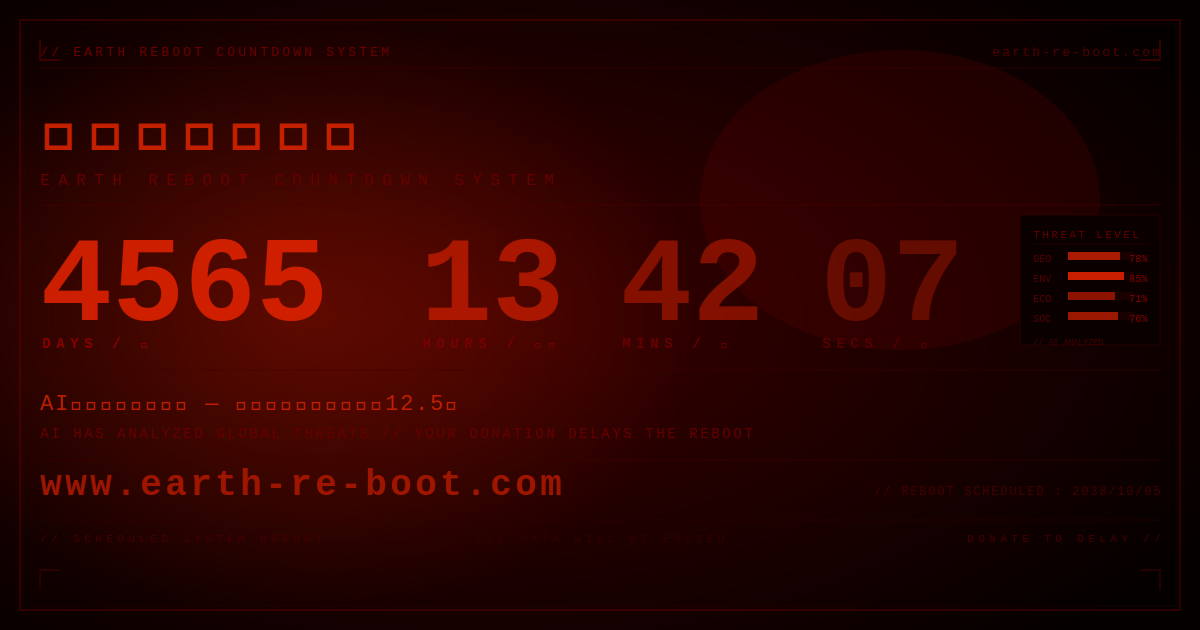
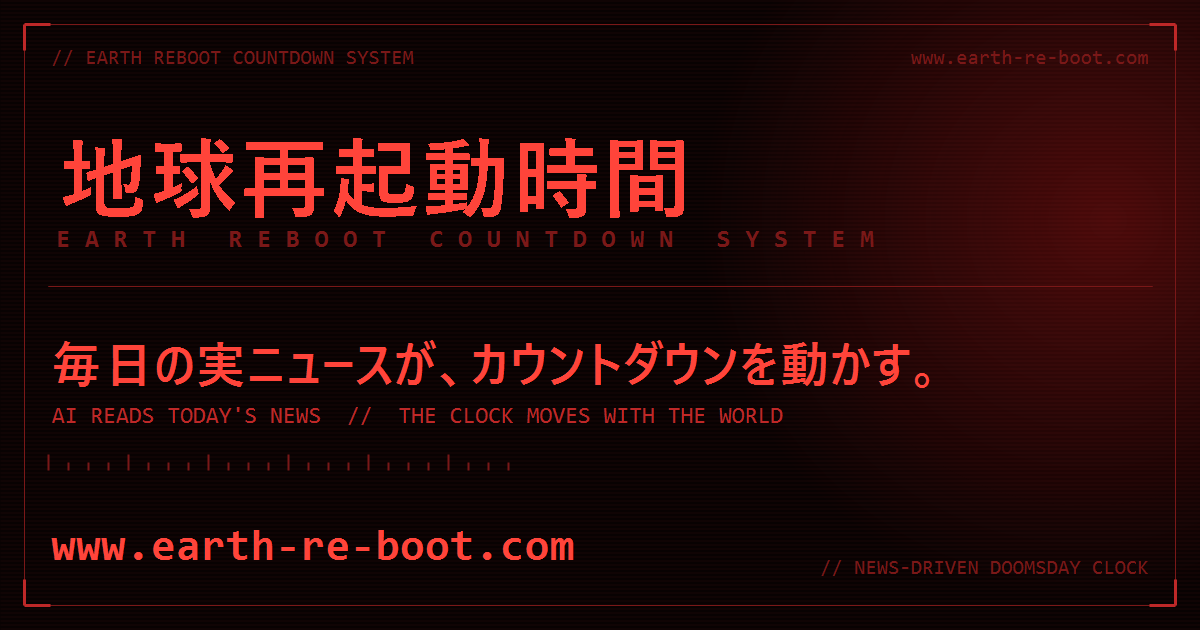
fix: OGP画像を作り直し、廃止済みの寄付訴求と豆腐文字を解消
旧 public/ogp.png には3つの問題があった。X・note・LINE 等あらゆる共有で
表示される画像であるため、サイトの現行仕様と食い違うと影響が大きい。

- 「YOUR DONATION DELAYS THE REBOOT」「DONATE TO DELAY」が残存。
  寄付による延命は 2026-06-28 に廃止済みで、note記事やSNSの発信内容と矛盾していた
- 日本語が豆腐文字（□）になっていた。生成時に日本語フォントが無かったとみられる
- 再起動日 2038/10/05 と固定のカウントダウン数値がハードコードされていた

対応:
- scripts/generate-ogp.ps1 を新設し、生成を再現可能にした
  （旧画像は手作業アップロードで生成元が無く、内容が古びる原因になっていた）
- 静的画像に数値を焼き込まない方針とし、「毎日の実ニュースが、カウントダウンを
  動かす。」というコンセプトを主メッセージに置いた
- og:image / twitter:image に ?v=2 を付与し、SNS側のキャッシュを更新させる

diff --git a/public/game.html b/public/game.html
@@ -7,12 +7,12 @@
 <meta property="og:title" content="EARTH REBOOT — 最後の選択者 | ブラウザ ビジュアルノベル">
 <meta property="og:description" content="2038年、地球再起動まで12時間。あなたはAI「GAIA」と共に人類最後の選択に臨む。選択肢型ノベルゲーム、無料プレイ。">
 <meta property="og:type" content="website">
-<meta property="og:image" content="https://www.earth-re-boot.com/ogp.png">
+<meta property="og:image" content="https://www.earth-re-boot.com/ogp.png?v=2">
 <meta property="og:image:width" content="1200">
 <meta property="og:image:height" content="630">
 <meta property="og:url" content="https://www.earth-re-boot.com/game">
 <meta name="twitter:card" content="summary_large_image">
-<meta name="twitter:image" content="https://www.earth-re-boot.com/ogp.png">
+<meta name="twitter:image" content="https://www.earth-re-boot.com/ogp.png?v=2">
 <meta name="twitter:title" content="EARTH REBOOT — 最後の選択者">
 <meta name="twitter:description" content="2038年、地球再起動まで12時間。AIと共に人類最後の選択に臨む選択肢型ノベルゲーム。">
 <meta name="description" content="2038年、地球再起動まで12時間。スーパーAI「GAIA」と共に環境崩壊・核戦争・ウイルスの3つの危機に立ち向かう選択肢型ブラウザノベルゲーム。無料プレイ。">

diff --git a/public/index.html b/public/index.html
@@ -336,12 +336,12 @@ function updateShareText() {
 }
 
 </script>
-<meta property="og:image" content="https://www.earth-re-boot.com/ogp.png">
+<meta property="og:image" content="https://www.earth-re-boot.com/ogp.png?v=2">
 <meta property="og:image:width" content="1200">
 <meta property="og:image:height" content="630">
 <meta property="og:url" content="https://www.earth-re-boot.com">
 <meta name="twitter:card" content="summary_large_image">
-<meta name="twitter:image" content="https://www.earth-re-boot.com/ogp.png">
+<meta name="twitter:image" content="https://www.earth-re-boot.com/ogp.png?v=2">
 <meta name="twitter:title" content="地球再起動時間 / Earth Reboot Countdown">
 <meta name="twitter:description" content="実際の世界情勢をAIが分析し、地球終末時計のように再起動までのカウントダウンを算出。ニュースに応じて毎日変化します。">
 </head>
